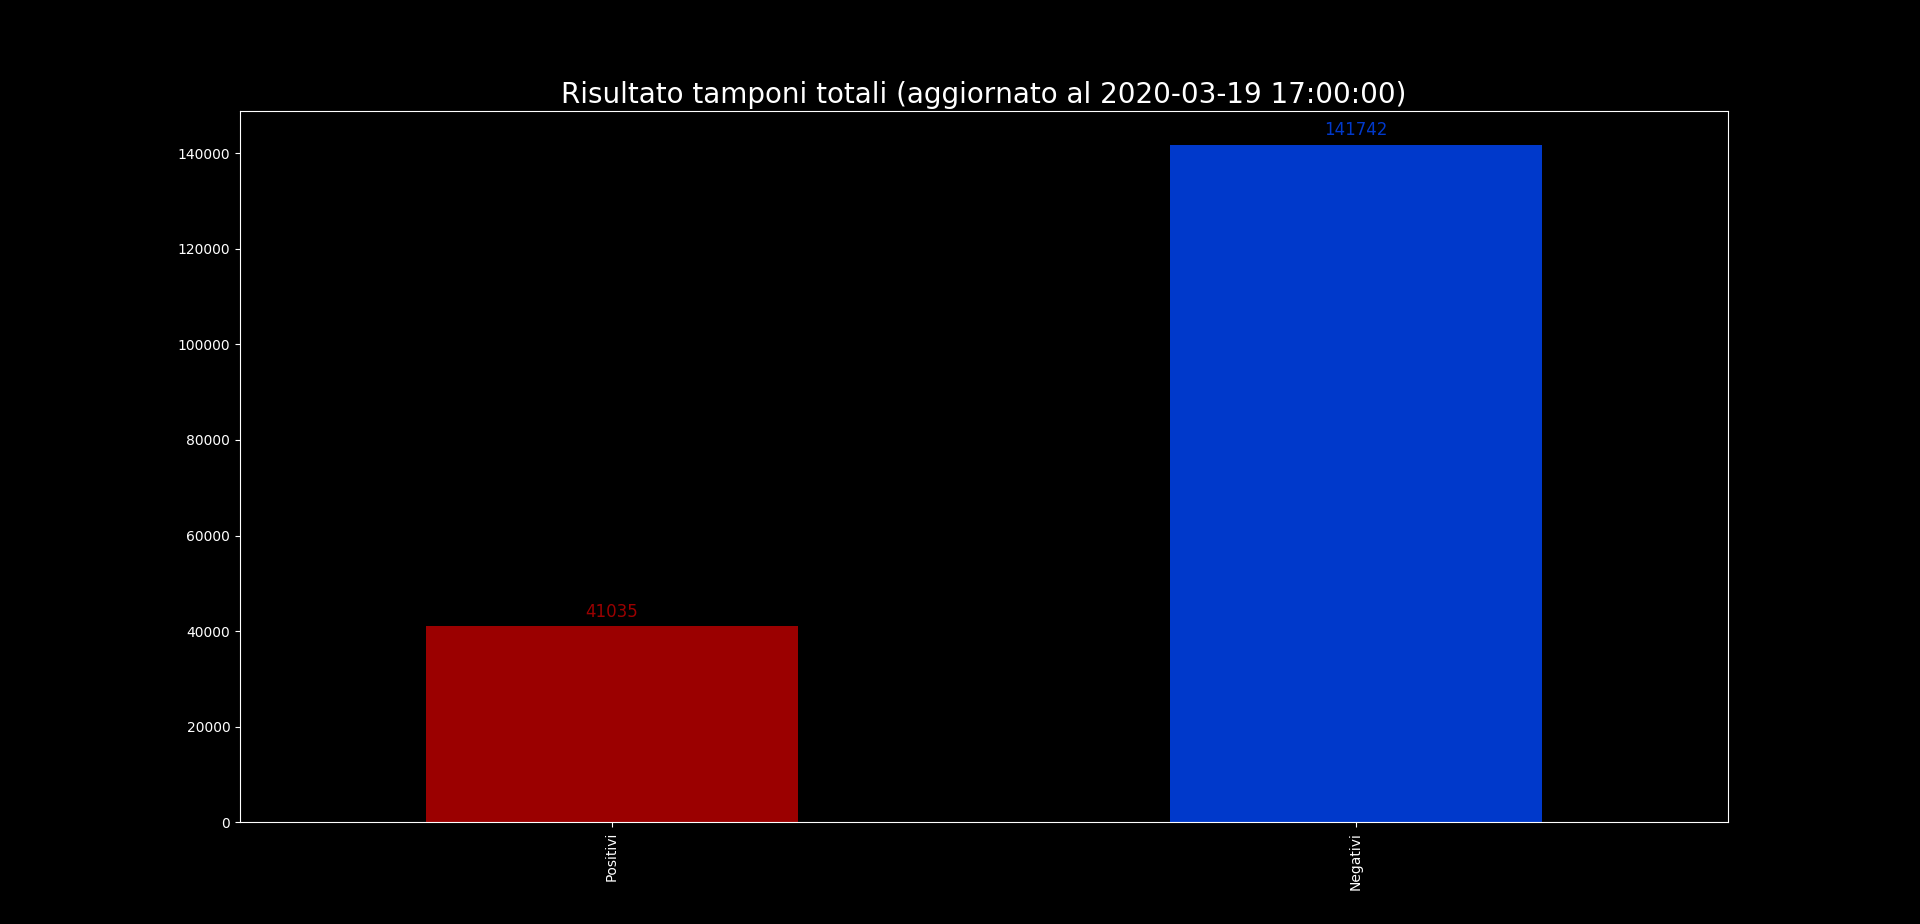
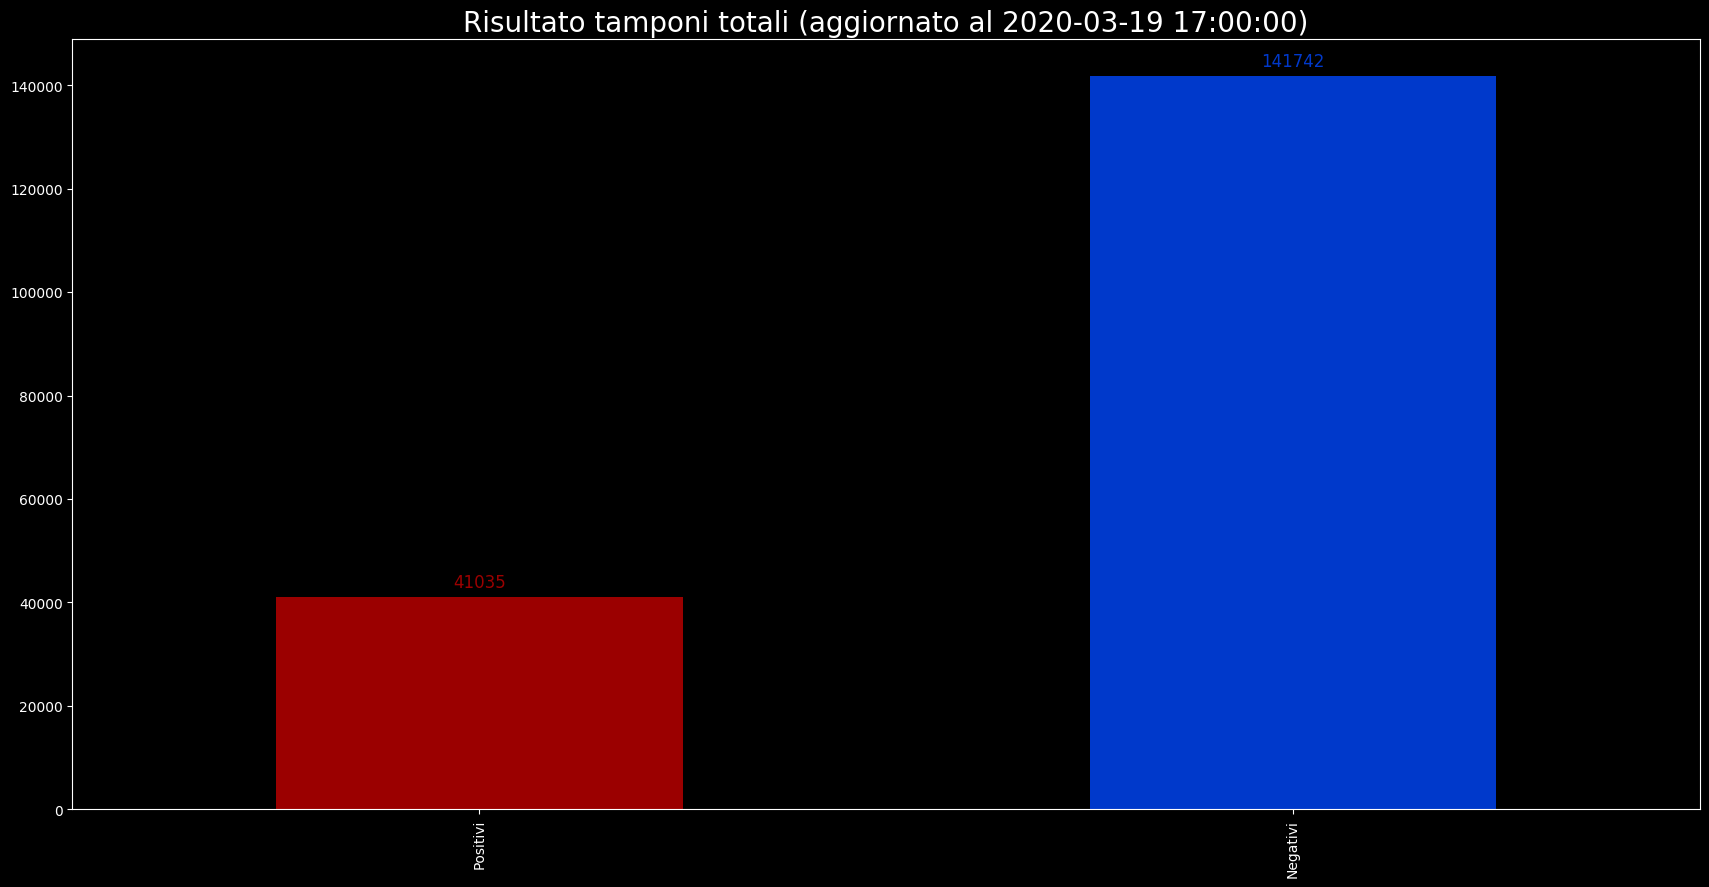
Added stats section and light theme

diff --git a/covid19graphs/statspage.html b/covid19graphs/statspage.html
@@ -1,5 +1,3 @@
-<link rel="stylesheet" href="../css/style.css">
-
 <table style="font-size:30px;border:2px solid" class="tablecontent">
     <tr>
         <th colspan=2>Record giornalieri (dal 24-02-2020)</th>

diff --git a/css/style.css b/css/style.css
@@ -95,3 +95,11 @@ tr {
     padding-left: 20px;
     padding-right: 20px;
 }
+
+.normal {
+	filter: invert(0%);
+}
+
+.inverted {
+	filter: invert(100%);
+}

diff --git a/covid19graphs/index.php b/covid19graphs/index.php
@@ -25,23 +25,51 @@ fclose($statsfile);
 
 <head>
     <link rel="stylesheet" href="../css/style.css" />
-    <h1>Grafici Covid-19 in Italia</h1>
+    <div style="width: 100%;text-align: right;">
+        <button class="buttondark" id="themebutton" onclick="changetheme(document.getElementById('themebutton').innerHTML)">☀</button>
+    </div>
+    <h1 style="font-size:400%">Grafici Covid-19 in Italia</h1>
     <div style="width:100%;text-align: center;font-size: 300%;"><a href="https://github.com/pcm-dpc/COVID-19">Fonte</a></div>
 </head>
 
 <body class="darkbody">
 
-    <div class="container"><img src="assets/deathconhealperdayline.png">
-
-        <div class="text-block"><?php include "statspage.html" ?></div>
-    </div>
-
-    <div style="margin-top:12%"><img border="1px" src="assets/posneglatestpie.png"></div>
 
 
-    <div><img src="assets/posneglatestbar.png"></div>
+    <div style="margin-top:4%; text-align:center"><img class="normal" src="assets/deathconhealperdayline.png"></div>
+    <div><?php include "statspage.html" ?></div>
+
+    <div style="margin-top:12%; text-align:center"><img class="normal" border="1px" src="assets/posneglatestpie.png"></div>
+
+
+    <div><img class="normal" style="margin-top:12%; text-align:center" src="assets/posneglatestbar.png"></div>
 
     </table>
 </body>
 
 </html>
+
+<script>
+    function changetheme(icon) {
+        switch (icon) {
+            case '☀':
+                document.getElementsByTagName('body')[0].className = 'lightbody'
+                document.getElementById('themebutton').innerHTML = '🌙'
+                document.getElementById('themebutton').className = 'buttonlight'
+                collection = document.getElementsByTagName('img')
+                for (const item of collection) {
+                    item.className = 'inverted'
+                }
+                break;
+            case '🌙':
+                document.getElementsByTagName('body')[0].className = 'darkbody'
+                document.getElementById('themebutton').innerHTML = '☀'
+                document.getElementById('themebutton').className = 'buttondark'
+                collection = document.getElementsByTagName('img')
+                for (const item of collection) {
+                    item.className = 'normal'
+                }
+                break;
+        }
+    }
+</script>

diff --git a/covid19graphs/src/RatioTestCases.py b/covid19graphs/src/RatioTestCases.py
@@ -12,10 +12,9 @@ def addtext(list2, colore):
         i += 1
 
 
-def showgraph(title):
+def showgraph(title, fileloc):
     plt.title(title, fontsize=20)
-
-    plt.show()
+    plt.savefig(fileloc, dpi=100, bbox_inches="tight")
 
 
 def aggiungitesto(listascelte, listacolori):
@@ -42,16 +41,19 @@ def main():
 
     # Inserisco stile
     plt.style.use('dark_background')
+    plt.figure(figsize=(21, 10))
 
     plt.pie(x=[posrel, negrel], labels=valori, colors=["#9b0000", "#0039cb"])
     plt.legend(labels=["Positivi", "Negativi"], fontsize=20)
-    showgraph("Risultato tamponi totali (aggiornato al {})".format(alldays[0][0]))
+    showgraph("Risultato tamponi totali (aggiornato al {})".format(alldays[0][0]), "../assets/posneglatestpie.png")
 
+    plt.style.use('dark_background')
+    plt.figure(figsize=(21, 10))
     barseries = pd.Series(data=[totalecasiposabs, totalecasinegabs], index=["Positivi", "Negativi"])
     barseries.plot.bar(color=["#9b0000", "#0039cb"])
     plt.text(0, barseries['Positivi']+2000, str(barseries['Positivi']), fontsize=12, color="#9b0000", ha="center")
     plt.text(1, barseries['Negativi']+2000, str(barseries['Negativi']), fontsize=12, color="#0039cb", ha="center")
-    showgraph("Risultato tamponi totali (aggiornato al {})".format(alldays[0][0]))
+    showgraph("Risultato tamponi totali (aggiornato al {})".format(alldays[0][0]), "../assets/posneglatestbar.png")
     return
 
 

diff --git a/covid19graphs/src/ContHealDeathPerDay.py b/covid19graphs/src/ContHealDeathPerDay.py
@@ -42,7 +42,7 @@ def addtext(list1, list2, colore):
 def showgraph(title):
     plt.title(title, fontsize=20)
     plt.legend(fontsize = 20)
-    plt.show()
+    plt.savefig('../assets/deathconhealperdayline.png', dpi=100, bbox_inches="tight")
 
 def aggiungitesto(giorni, listascelte, listacolori):
     for s, c in zip(listascelte, listacolori):
@@ -88,6 +88,7 @@ def main():
 
     #Inserisco stile
     plt.style.use('dark_background')
+    plt.figure(figsize=(21, 10))
 
     listaseriescelte  = [deathseries, healseries, contseries]       #Lista delle serie che voglio vedere nel grafico
     listacolori = ["red", "green", "orange"]                        #Lista dei colori per ogni serie, in ordine
